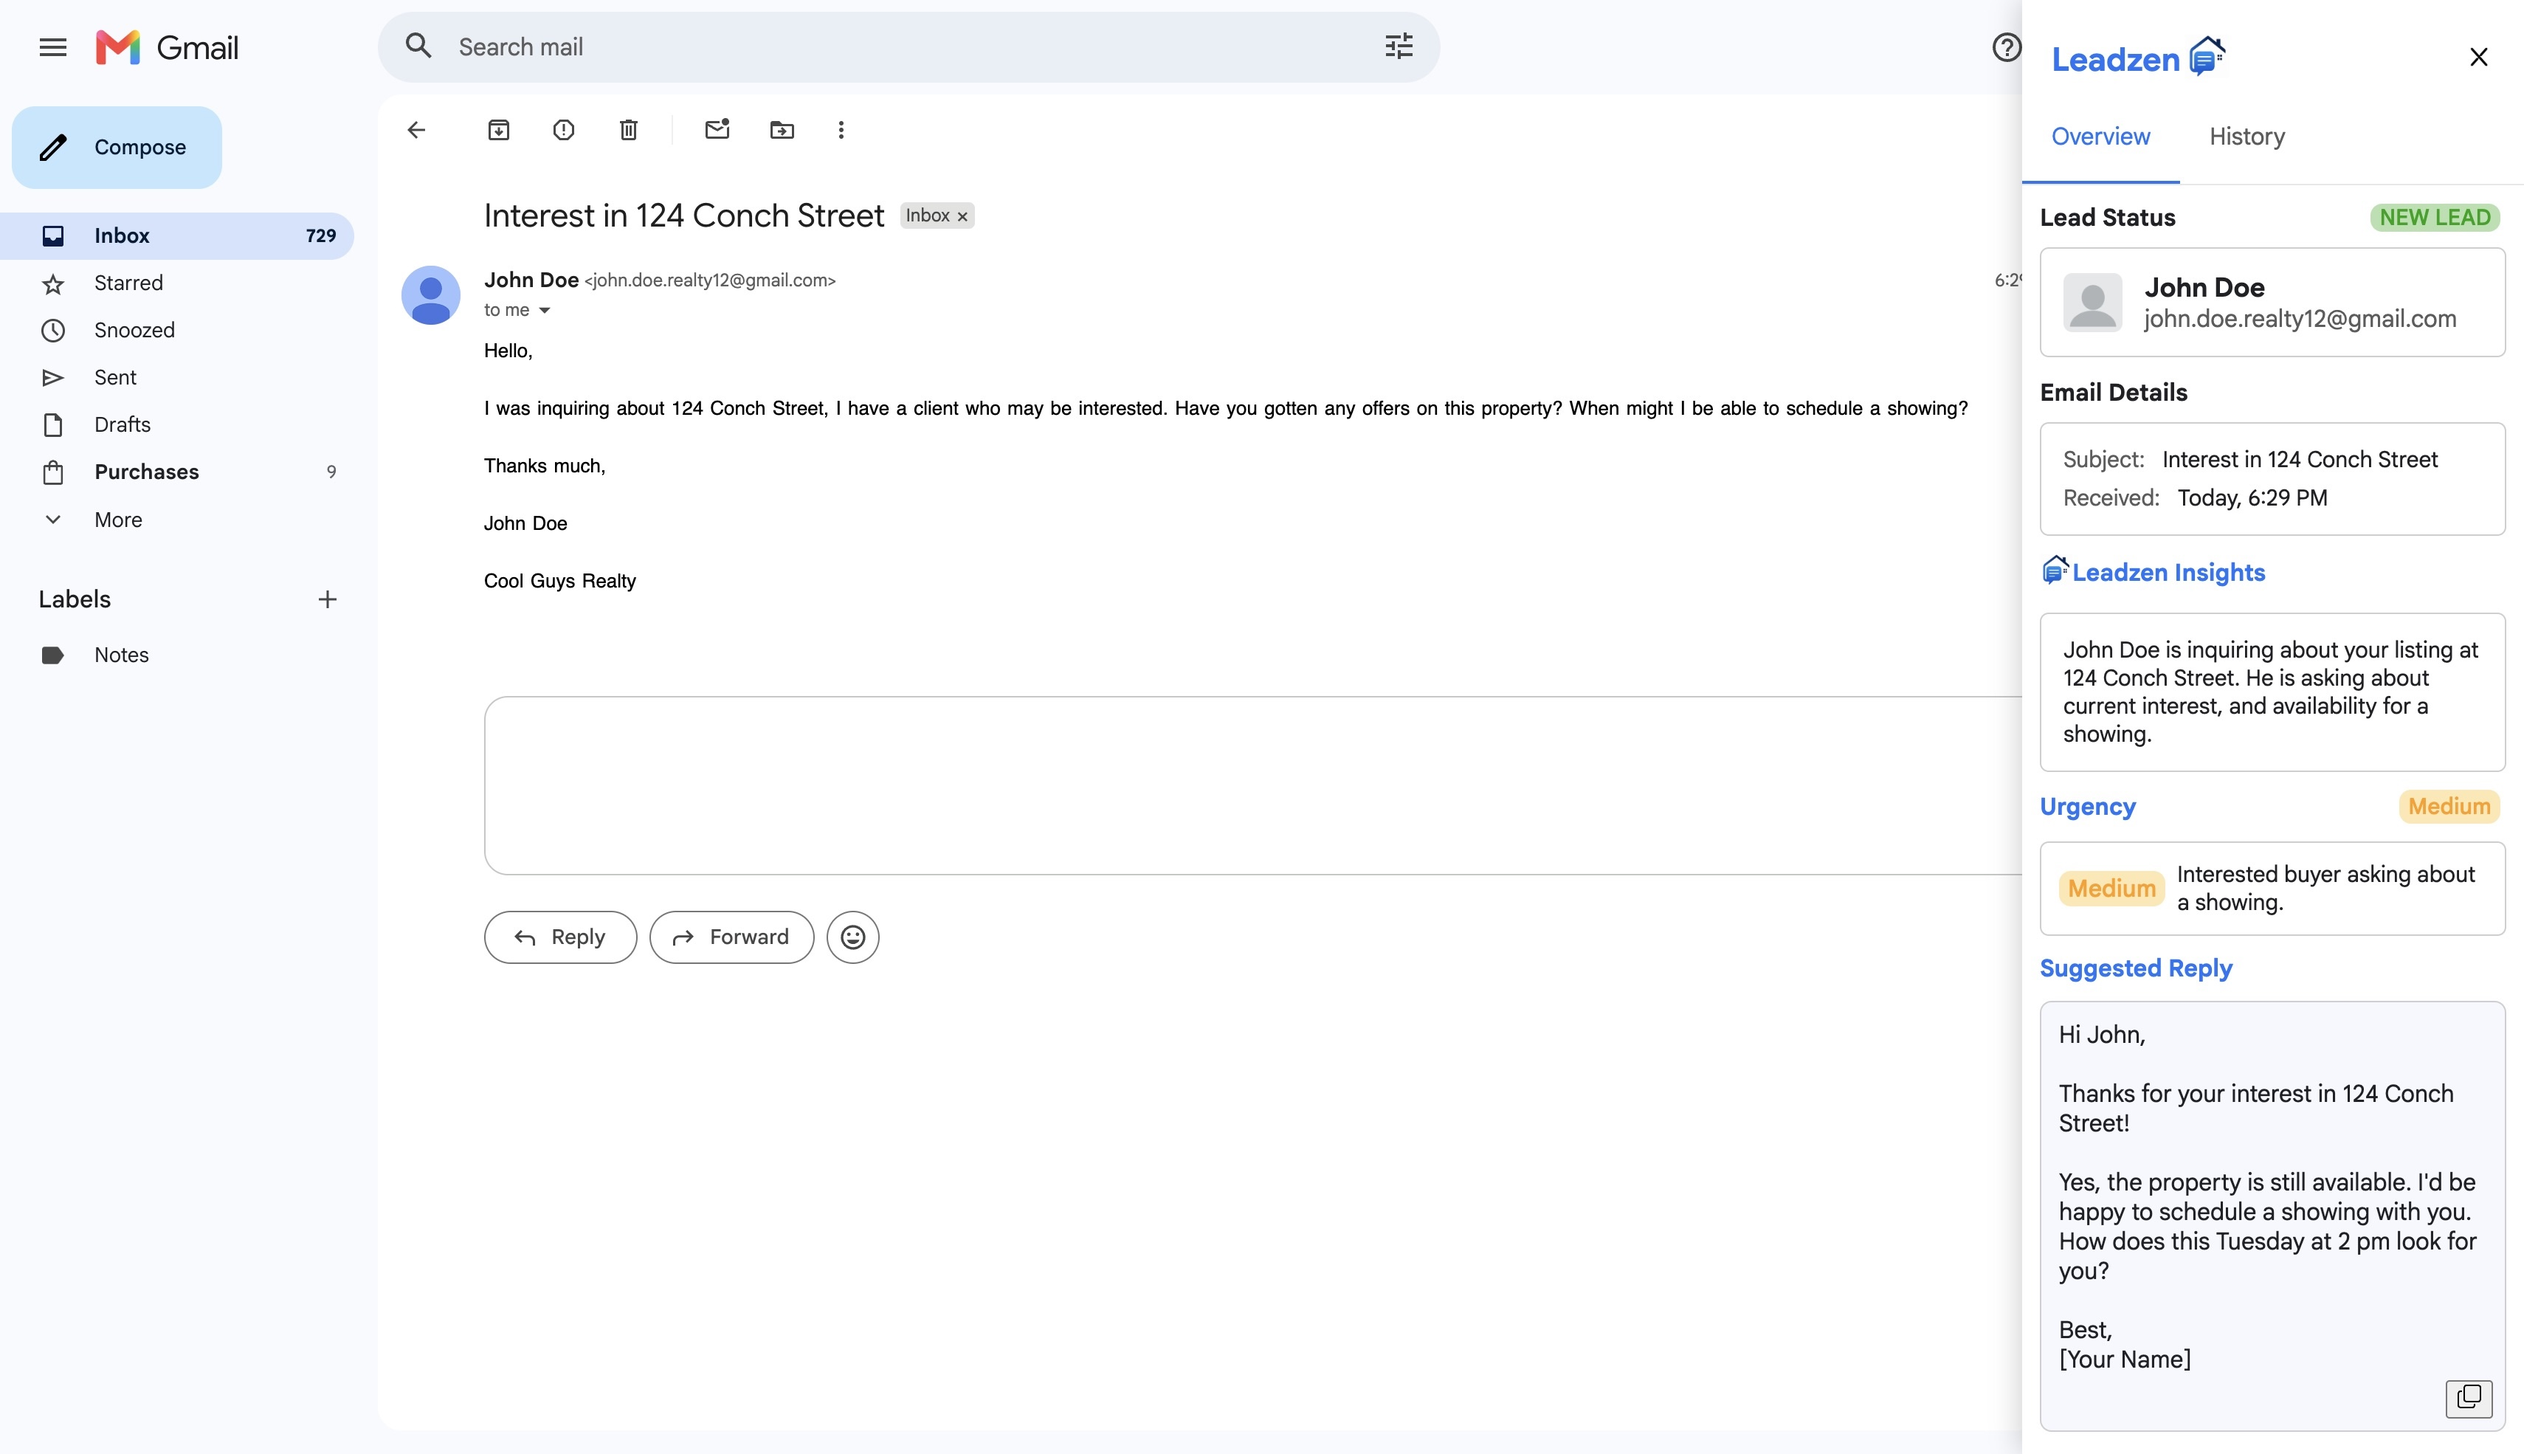
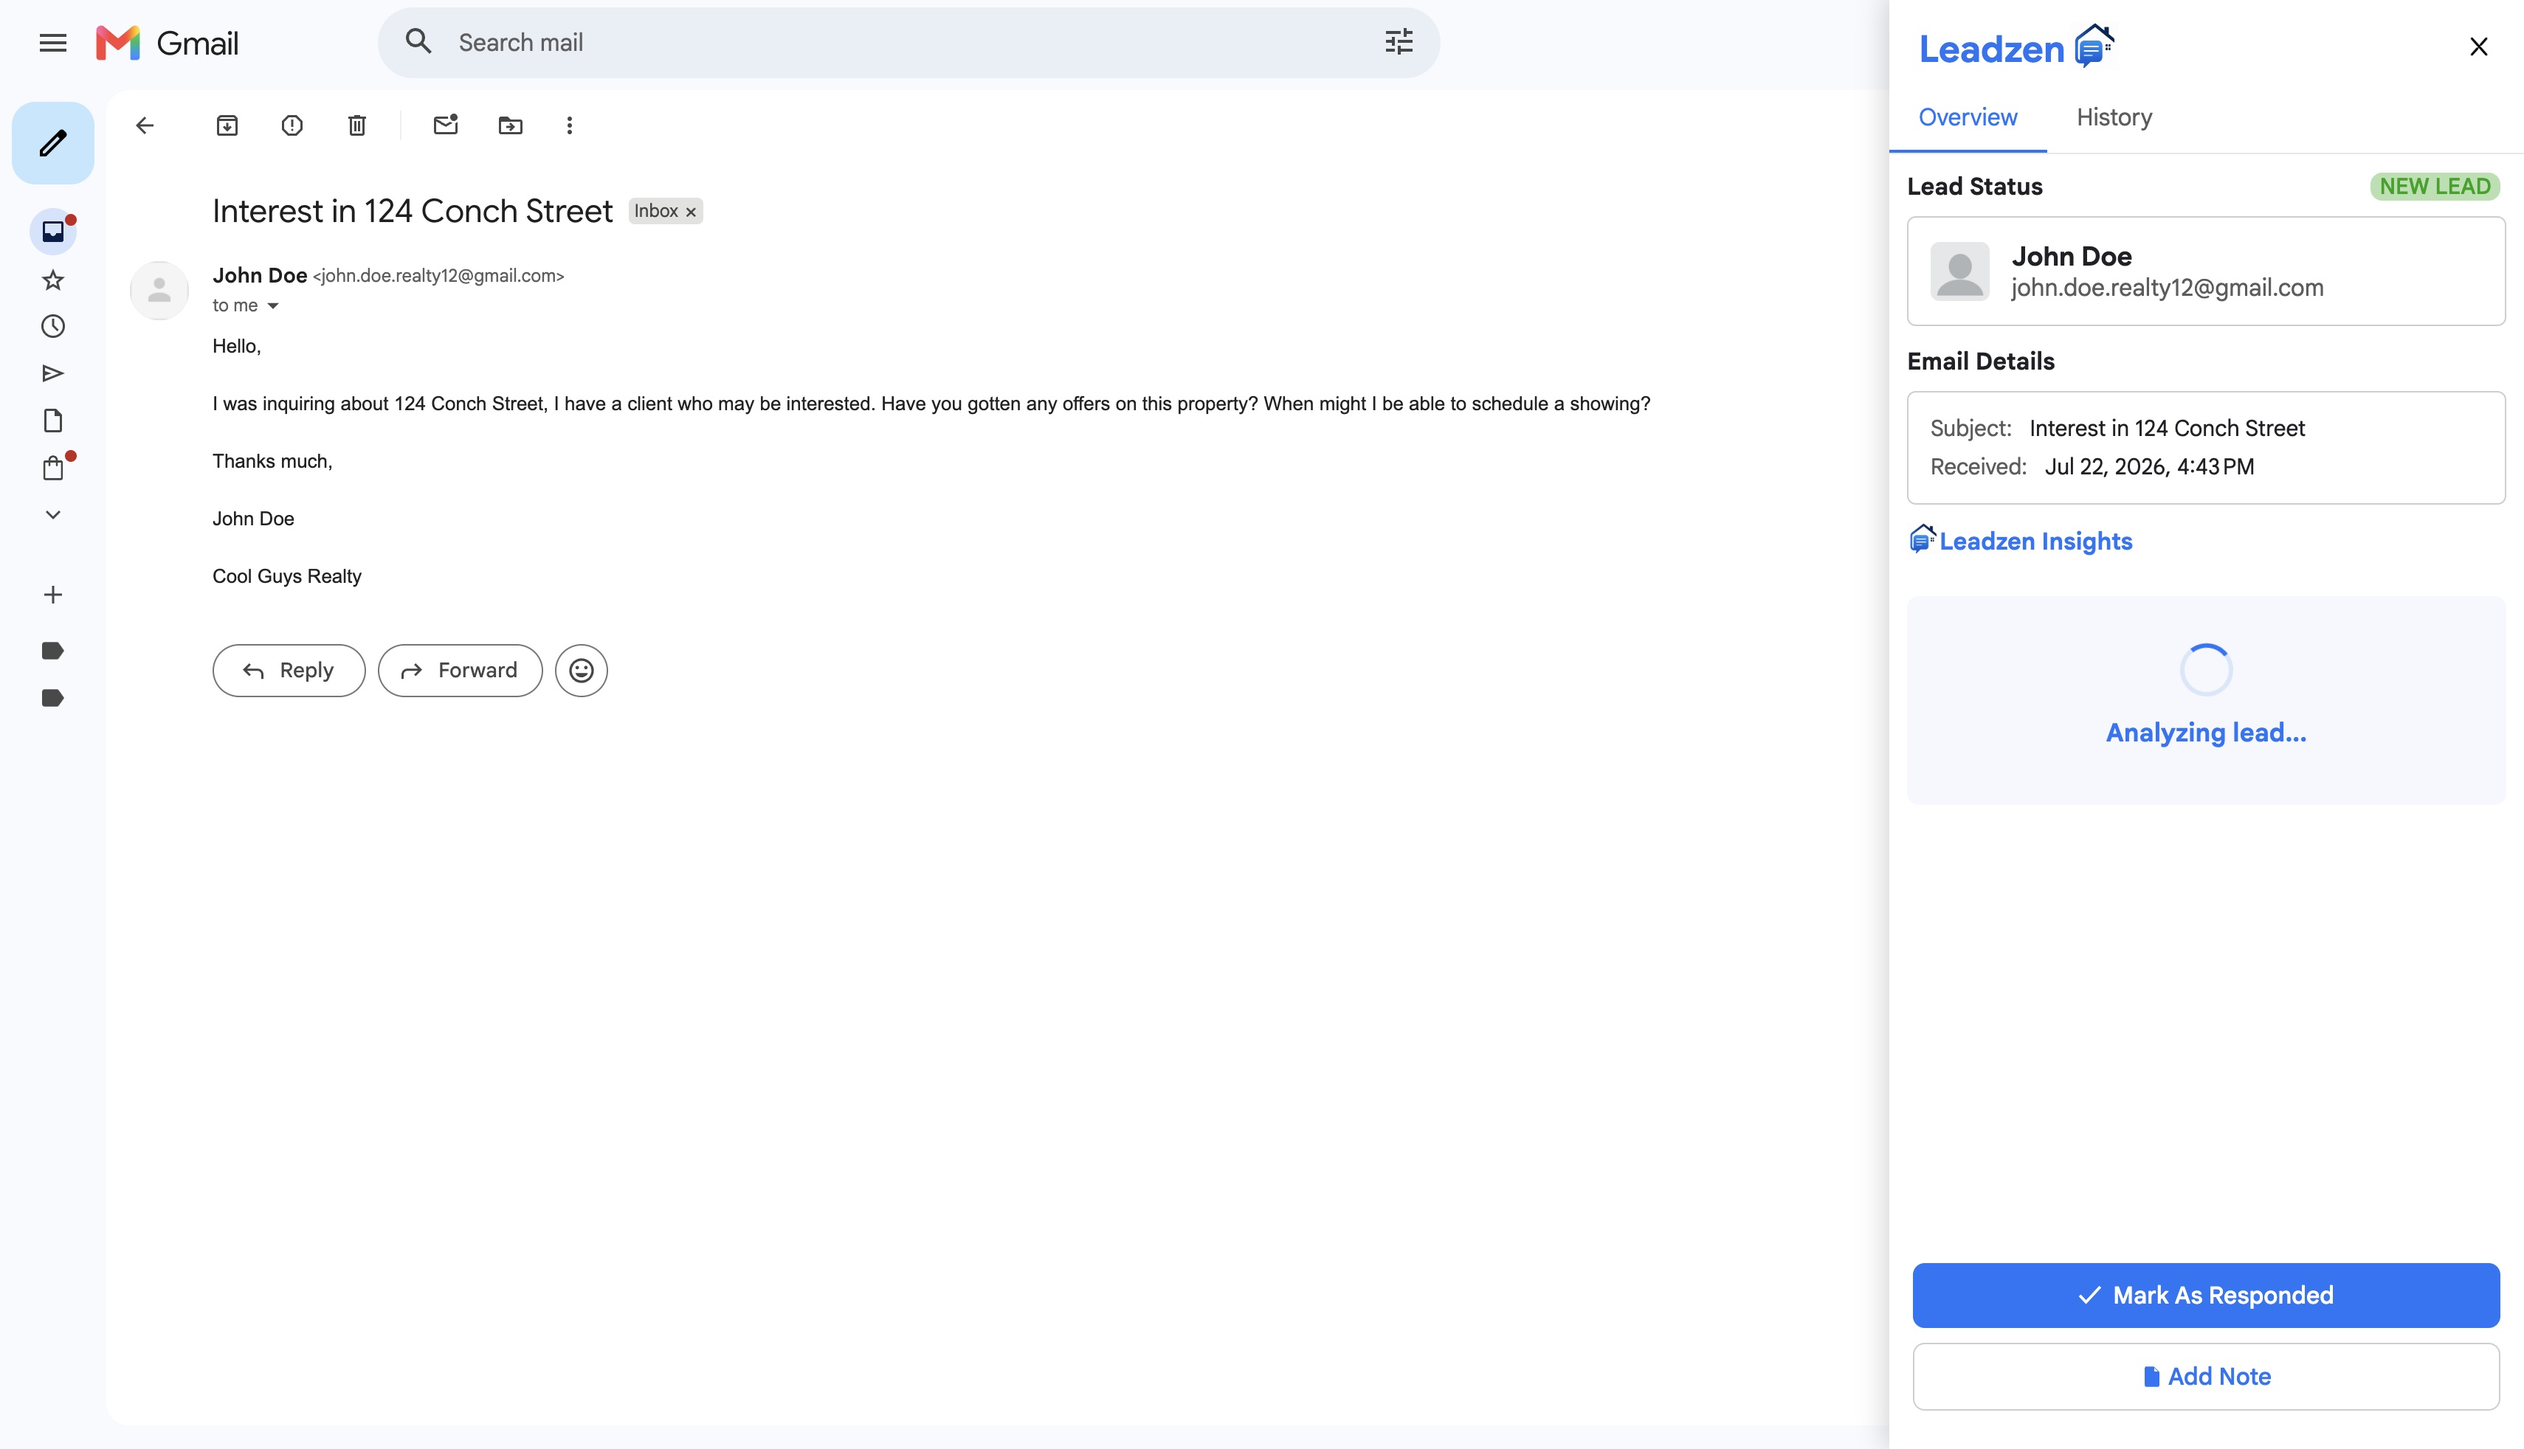
Update: README.md demo images

diff --git a/backend/src/main/java/com/leadzen/backend/service/AiService.java b/backend/src/main/java/com/leadzen/backend/service/AiService.java
@@ -45,7 +45,7 @@ High
 Medium
 Low
 
-Do not automatically recommend an immediate response. Use delays if necessary for strategy if it would help with leverage or negotiations. Consider whether responding immediately, after a short delay, or later is most likely to help move the lead forward while still providing good service. 
+Do not automatically recommend an immediate response. Use delays if necessary for strategy if it would help with leverage or negotiations. Consider whether responding immediately, after a short delay, or later is most likely to help move the lead forward while still providing good service. Ex: "Respond within 30 minutes for the most strategic play"... (does not have to be exactly like that).
 
 Briefly explain why you recommend that response timing.
 
@@ -62,7 +62,7 @@ The reply should:
 - avoid unnecessary length
 - never invent facts that were not provided
 
-If required information is unknown, write around it instead of making it up.
+If required information is unknown, write around it instead of making it up. Make sure everything returned is natural, grammatically correct, and human like.
 
 Return only valid JSON.
 

diff --git a/README.md b/README.md
@@ -1,7 +1,7 @@
 # Leadzen
 <p>Leadzen is a Chrome extension I'm building that will help real estate professionals manage, convert, and track leads.</p>
 
-![Progress Image (insights)](demo-imgs/progress-image3.jpeg)  
+![Progress Image (insights)](demo-imgs/progress-image4.jpeg)  
 
 ### Version 1.0 Planned Features (in progress): 
 ---
@@ -48,5 +48,6 @@ I am currently improving the UI and working on persistent lead history via Postg
 #### See below for what I have so far. 
 ![Progress Image (bar)](demo-imgs/progress-image1.jpeg)
 ![Progress Image (sidebar)](demo-imgs/progress-image2.jpeg)
-![Progress Image (insights)](demo-imgs/progress-image3.jpeg)
+![Progress Image (loading)](demo-imgs/progress-image3.jpeg)
+![Progress Image (insights)](demo-imgs/progress-image4.jpeg)
 
